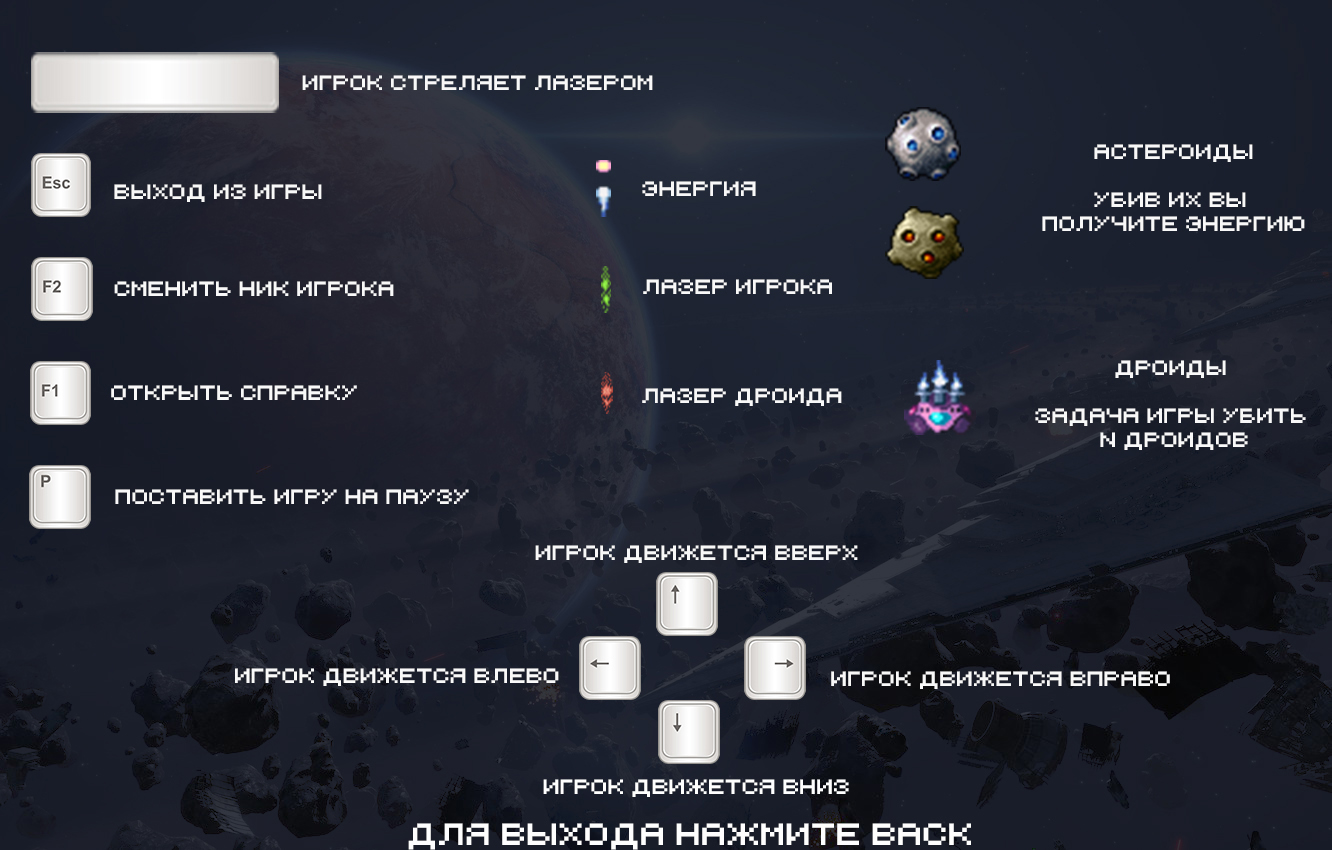
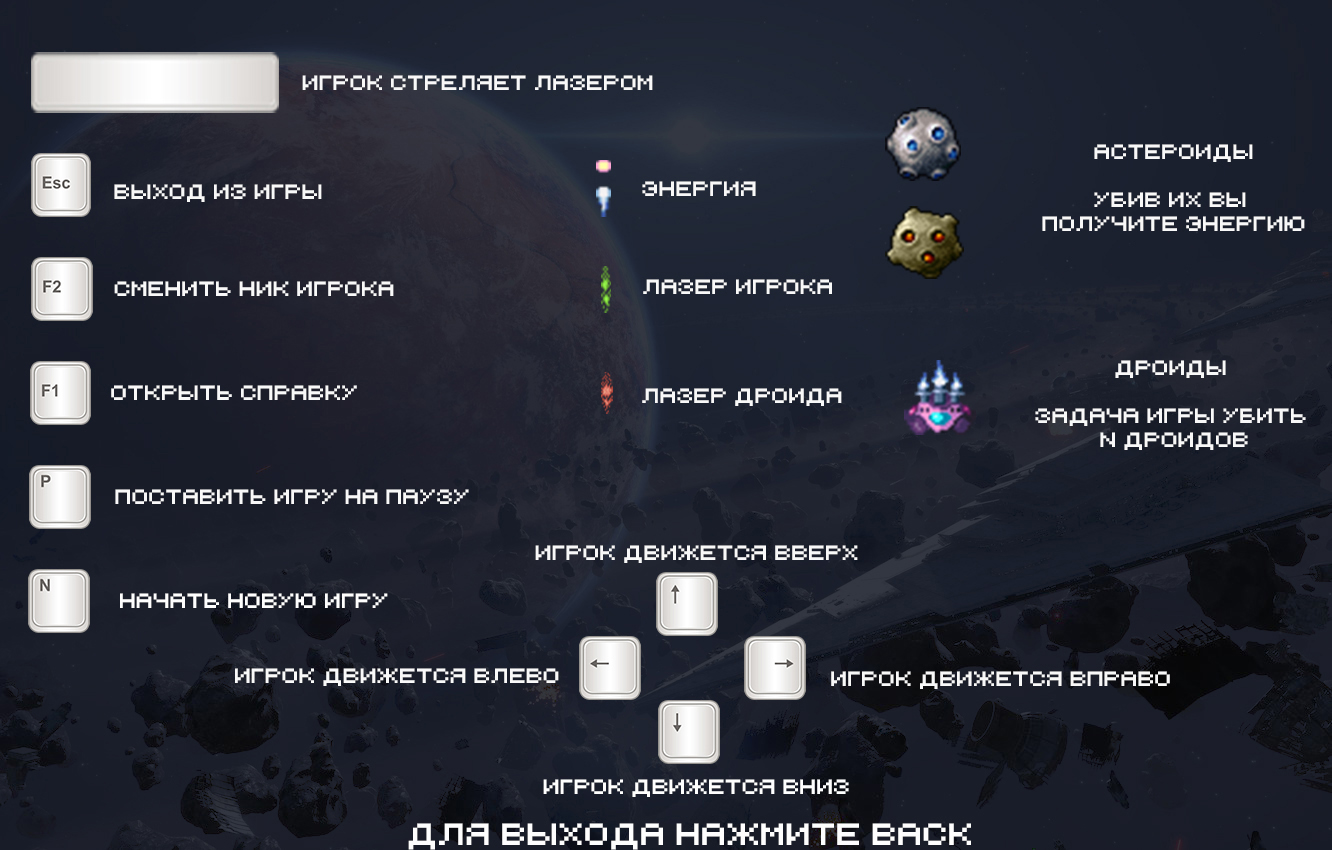
База данных SQL Сохранение результатов после выхода + Кнопка начала игры

Changed region(s): [[0.0, 0.6424, 0.277, 0.7647]]

diff --git a/game.py b/game.py
@@ -4,12 +4,9 @@ from sprites import *
 from os import *
 import sys
 from image import load_image
+import sqlite3
 
-# Он будет увеличиваться по мере уничтожения дроидов, пока мы не достигнем цели
-destroyed_enemy_counter = 0
-game_challenge = 25  # Количество дронов которых необходимо убить
-index_nick = 1
-lvl = 1
+
 count_laser = COUNT_LASER
 
 
@@ -48,7 +45,7 @@ def draw_text(text, source, surface, x, y):
 
 
 def show_game_result(points):
-    global destroyed_enemy_counter, game_challenge, lvl, count_laser
+    global destroyed_enemy_counter, game_challenge, lvl, count_laser, index_nick, score_top
     if destroyed_enemy_counter >= game_challenge:
         sound = game_won_sound
         img = load_image(path.join('data', 'images', 'background', 'game_won.jpg'), True, DISPLAYMODE)
@@ -58,9 +55,9 @@ def show_game_result(points):
         sound = game_over_sound
         img = load_image(path.join('data', 'images', 'background', 'game_lost.jpg'), True, DISPLAYMODE)
         lvl = 1
-        game_challenge = 25
-    count_laser = COUNT_LASER
+        game_challenge = 3
     destroyed_enemy_counter = 0
+    new_data(lvl, game_challenge, index_nick, score_top, destroyed_enemy_counter)
     window.blit(img, (0, 0))
     pygame.display.update()
     draw_text(str(points), font_2, window, (WINDOW_WIDTH / 2) - 20, (WINDOW_HEIGHT / 2) - 20)
@@ -121,6 +118,7 @@ def show_help():
 
 
 def show_list_nick():
+    global index_nick
     img_nick = load_image(path.join('data', 'images', 'background', 'background_nick.jpg'), True, DISPLAYMODE)
     window.blit(img_nick, (0, 0))  # Изображение для покрытия фона
     list_nick = []
@@ -141,9 +139,11 @@ def show_list_nick():
                     return
         key_pressed = pygame.key.get_pressed()
         if key_pressed[pygame.K_1]:
-            return update_player(1)
+            index_nick = 1
+            return update_player(index_nick)
         if key_pressed[pygame.K_2]:
-            return update_player(2)
+            index_nick = 2
+            return update_player(index_nick)
 
 
 def update_player(index):
@@ -154,26 +154,52 @@ def update_player(index):
     return player, group_laser_player, player_team, enemy_team
 
 
+def new_game():
+    pygame.mixer.init(frequency=22050, size=-16, channels=8, buffer=4096)
+    music_channel.play(intro_sound, loops=-1, maxtime=0, fade_ms=0)
+    pygame.display.set_caption("Star Wars")
+    # pygame.display.set_mode((0, 0), pygame.FULLSCREEN)
+    # Фоновое изображение
+    background = load_image(path.join('data', 'images', 'background', 'background_1.jpg'), True, DISPLAYMODE)
+    window.blit(background, (0, 0))
+    pygame.mouse.set_visible(False)  # Прячем мышку на поле
+    pygame.display.update()
+    wait_for_keystroke_menu()
+    music_channel.stop()
+
+
+def new_data(l, challenge, nick, score, destroyed_enemy):
+    global count_laser
+    count_laser = COUNT_LASER
+    con = sqlite3.connect(path.join('data', 'database', 'player data.db'))
+    cur = con.cursor()
+    cur.execute("""INSERT INTO game (lvl, challenge, index_nick, score, destroyed_enemy_counter)
+                VALUES(?, ?, ?, ?, ?)""", (l, challenge, nick, score, destroyed_enemy))
+    con.commit()
+    con.close()
+
+
 class Game(object):
     def __init__(self):
         super(Game, self).__init__()
         pygame.init()
-        pygame.mixer.init(frequency=22050, size=-16, channels=8, buffer=4096)
-        pygame.display.set_caption("Star Wars")
-        pygame.display.set_mode((0, 0), pygame.FULLSCREEN)
-        # Фоновое изображение
-        background = load_image(path.join('data', 'images', 'background', 'background_1.jpg'), True, DISPLAYMODE)
-        window.blit(background, (0, 0))
+        new_game()
         self.time = pygame.time.Clock()
 
-        pygame.mouse.set_visible(False)  # Прячем мышку на поле
-        pygame.display.update()
-        wait_for_keystroke_menu()
-        music_channel.stop()
-
     def run(self):
-        global destroyed_enemy_counter, game_challenge, count_laser
-        score_top = 0
+        global destroyed_enemy_counter, count_laser, index_nick, lvl, game_challenge, score_top
+        con = sqlite3.connect(path.join('data', 'database', 'player data.db'))
+        cur = con.cursor()
+        result = cur.execute('''SELECT lvl, challenge, index_nick, score, destroyed_enemy_counter FROM game
+                                    WHERE ID = (SELECT MAX(ID) FROM game)''')
+        for elem in result:
+            lvl = elem[0]  # Текущий уровень
+            game_challenge = elem[1]  # Количество дронов которых необходимо убить
+            index_nick = elem[2]  # Индекс ника
+            score_top = elem[3]  # Лучший счет
+            destroyed_enemy_counter = elem[4]  # Количество уничтоженых дроидов
+        con.commit()
+        con.close()
         delay_laser = 0
         fps_laser = 0
         time_elapsed = time.clock()
@@ -234,11 +260,14 @@ class Game(object):
                                 start_time = time.clock() - time_elapsed
                             if event.key == pygame.K_ESCAPE:
                                 exit_game()
+                            if event.key == pygame.K_n:
+                                lvl, game_challenge,  index_nick, score_top, destroyed_enemy_counter = 1, 3, 1, 0, 0
+                                new_data(lvl, game_challenge,  index_nick, score_top, destroyed_enemy_counter)
+                                new_game()
                             if event.key == pygame.K_SPACE:
                                 delay_laser = 9
                         elif event.type == pygame.KEYUP:
                             player.x_speed, player.y_speed = 0, 0
-
                     # Перемещение игрока в пространстве(на экране)
                     key_pressed = pygame.key.get_pressed()
                     if key_pressed[pygame.K_LEFT] or key_pressed[pygame.K_a]:
@@ -389,6 +418,8 @@ class Game(object):
                 objectives_box.text = "Вы уничтожили: {} дроидов".format(destroyed_enemy_counter)
                 challenge_box.text = "Осталось: {} дроидов".format(game_challenge - destroyed_enemy_counter)
                 time_box.text = "Время: %.2f" % time_elapsed
+                lvl_box.text = "Уровень: {}".format(lvl)
+
                 if energy < 0:
                     energy = 0
                 elif energy > 100:

diff --git a/sprites.py b/sprites.py
@@ -11,7 +11,7 @@ from image import load_image
 
 
 class Player(pygame.sprite.Sprite):
-    def __init__(self, index_nik=1):
+    def __init__(self, index_nik):
         pygame.sprite.Sprite.__init__(self)
         self.list_spaceship = []
         self.index = -1

diff --git a/const.py b/const.py
@@ -53,4 +53,3 @@ explosion_droid = load_sound("explosion_droid.ogg", 0.3)
 explosion_asteroid = load_sound("destroyed_asteroid.ogg", 0.3)
 
 music_channel = pygame.mixer.Channel(4)
-music_channel.play(intro_sound, loops=-1, maxtime=0, fade_ms=0)
